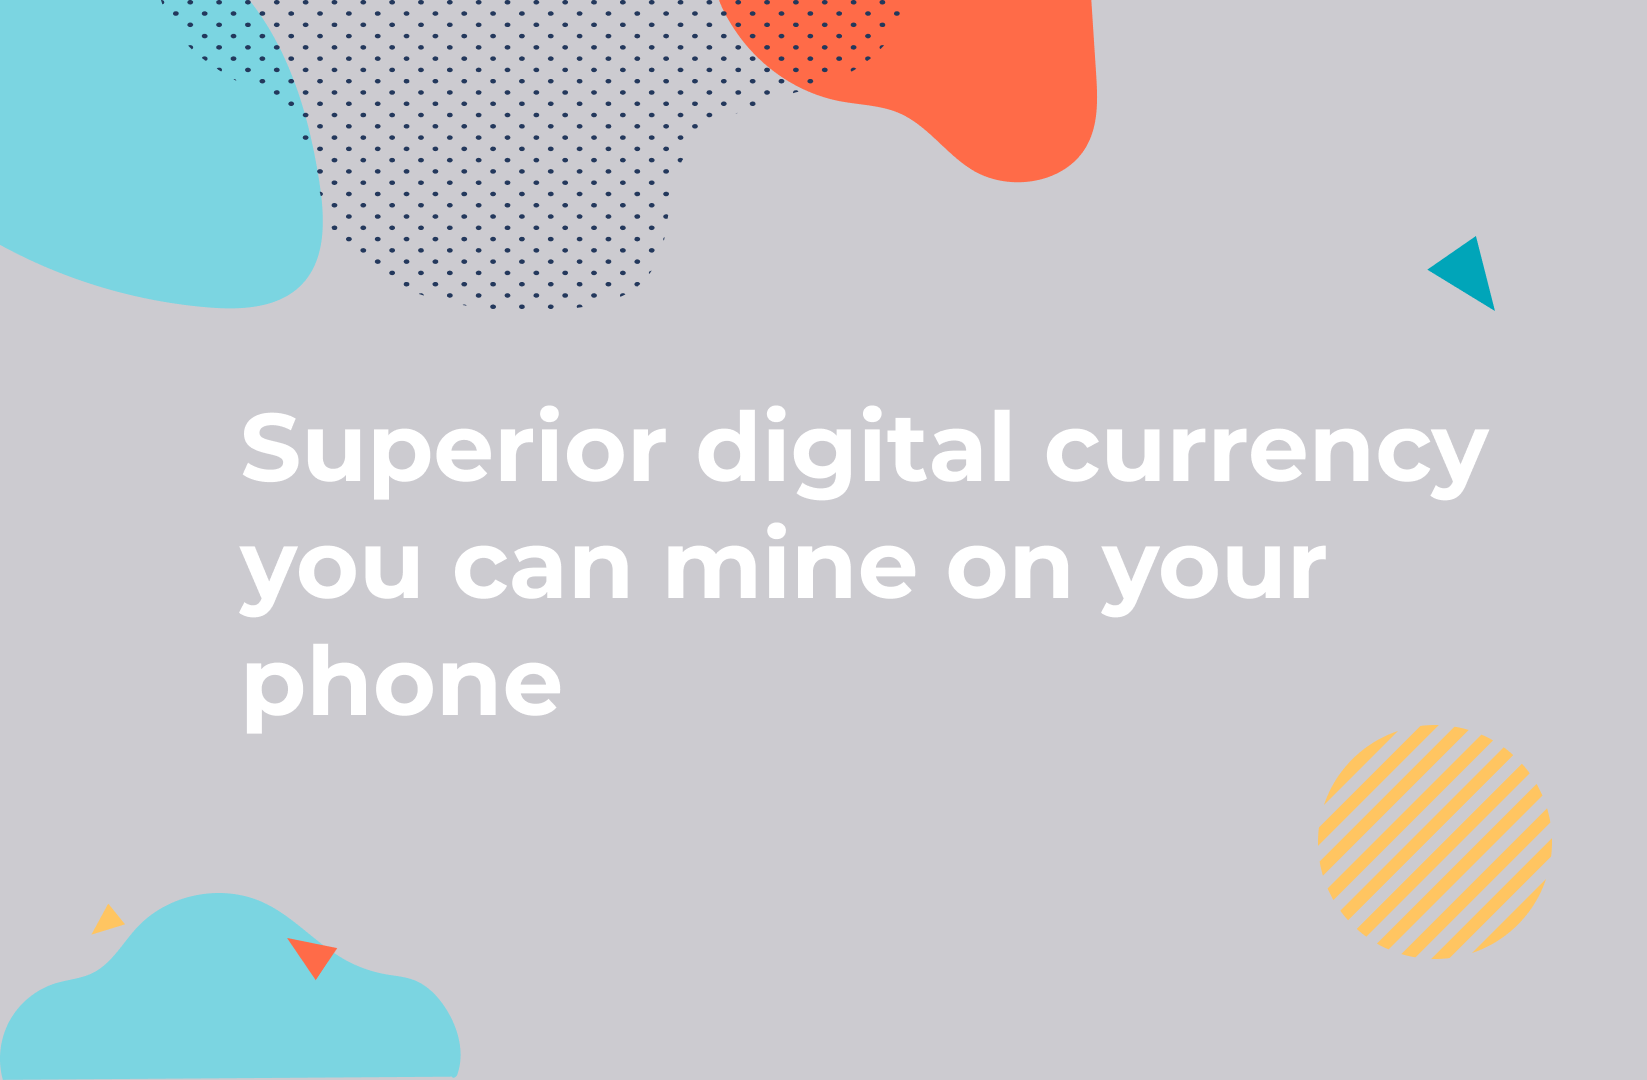
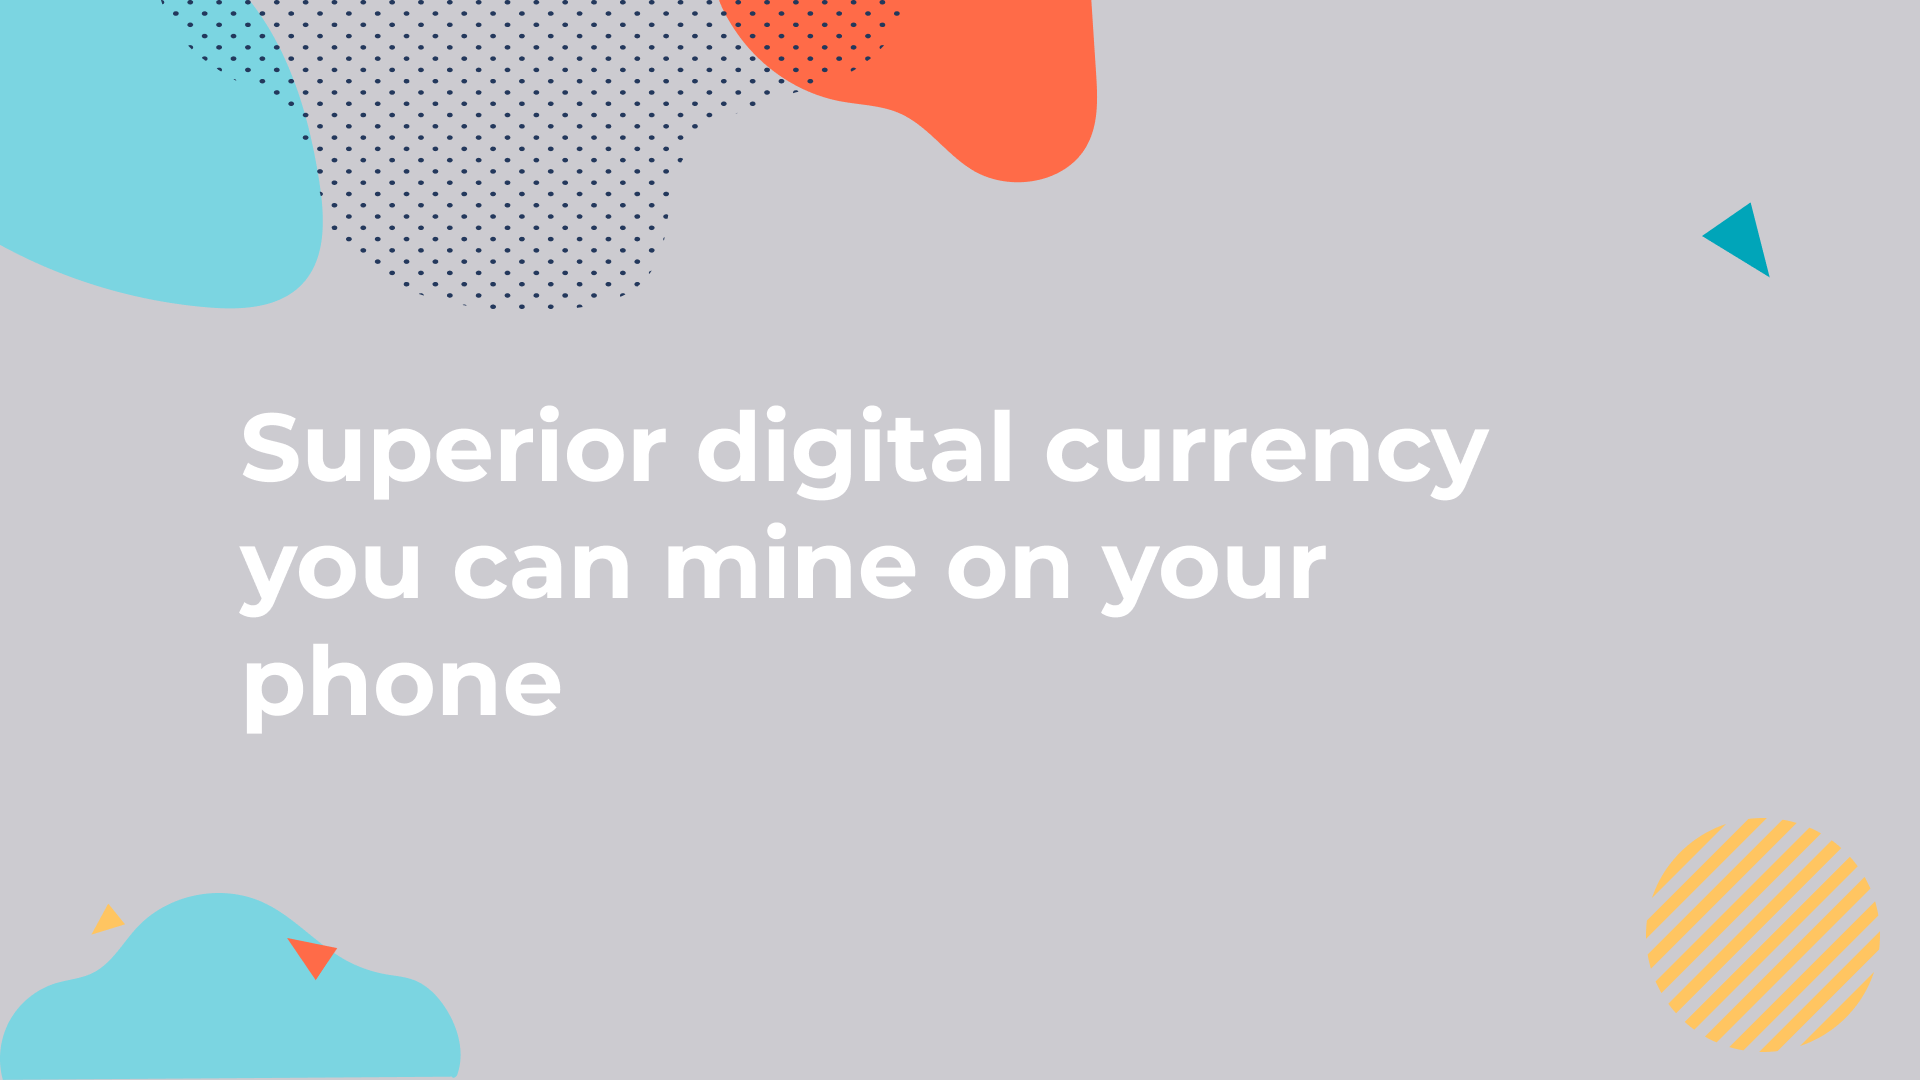
resized svg carousel

diff --git a/pages/index.tsx b/pages/index.tsx
@@ -49,17 +49,17 @@ const Index = () => {
                 >
                     <SwiperSlide>
                         <div className='w-full md:w-2/3 rounded-4xl overflow-hidden'>
-                            <Image src='/carousel1.png' alt='' layout='fill' />
+                            <Image src='/carousel1.png' alt='' width='100%' height='100%' />
                         </div>
                     </SwiperSlide>
                     <SwiperSlide>
                         <div className='w-full md:w-2/3 rounded-4xl overflow-hidden'>
-                            <Image src='/carousel1.png' alt='' layout='fill' />
+                            <Image src='/carousel2.png' alt='' width='100%' height='100%' />
                         </div>
                     </SwiperSlide>
                     <SwiperSlide>
                         <div className='w-full md:w-2/3 rounded-4xl overflow-hidden'>
-                            <Image src='/carousel1.png' alt='' layout='fill' />
+                            <Image src='/carousel3.png' alt='' width='100%' height='100%' />
                         </div>
                     </SwiperSlide>
                 </Swiper>
